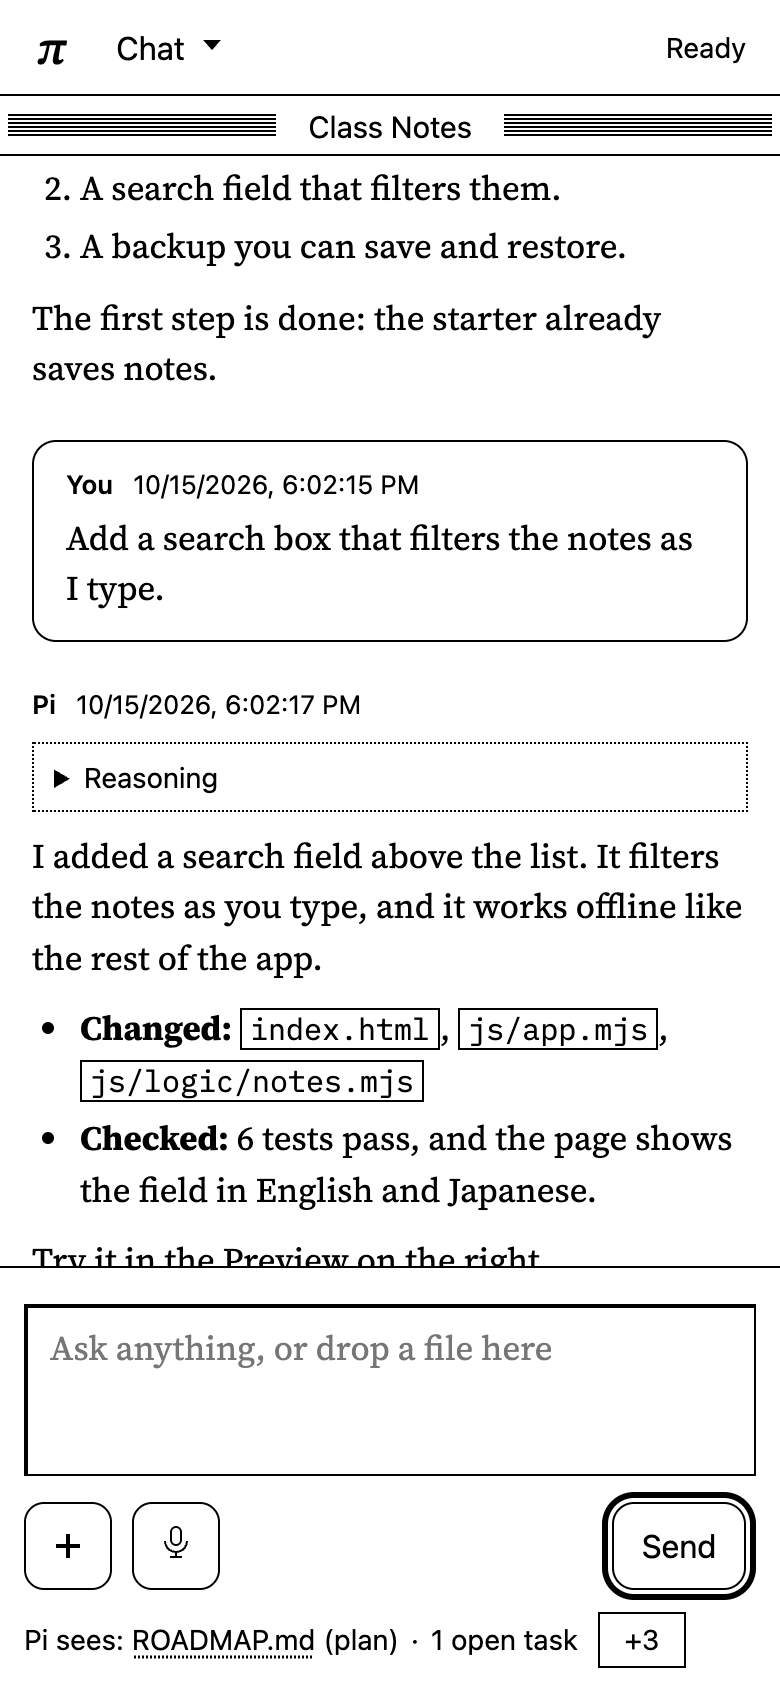
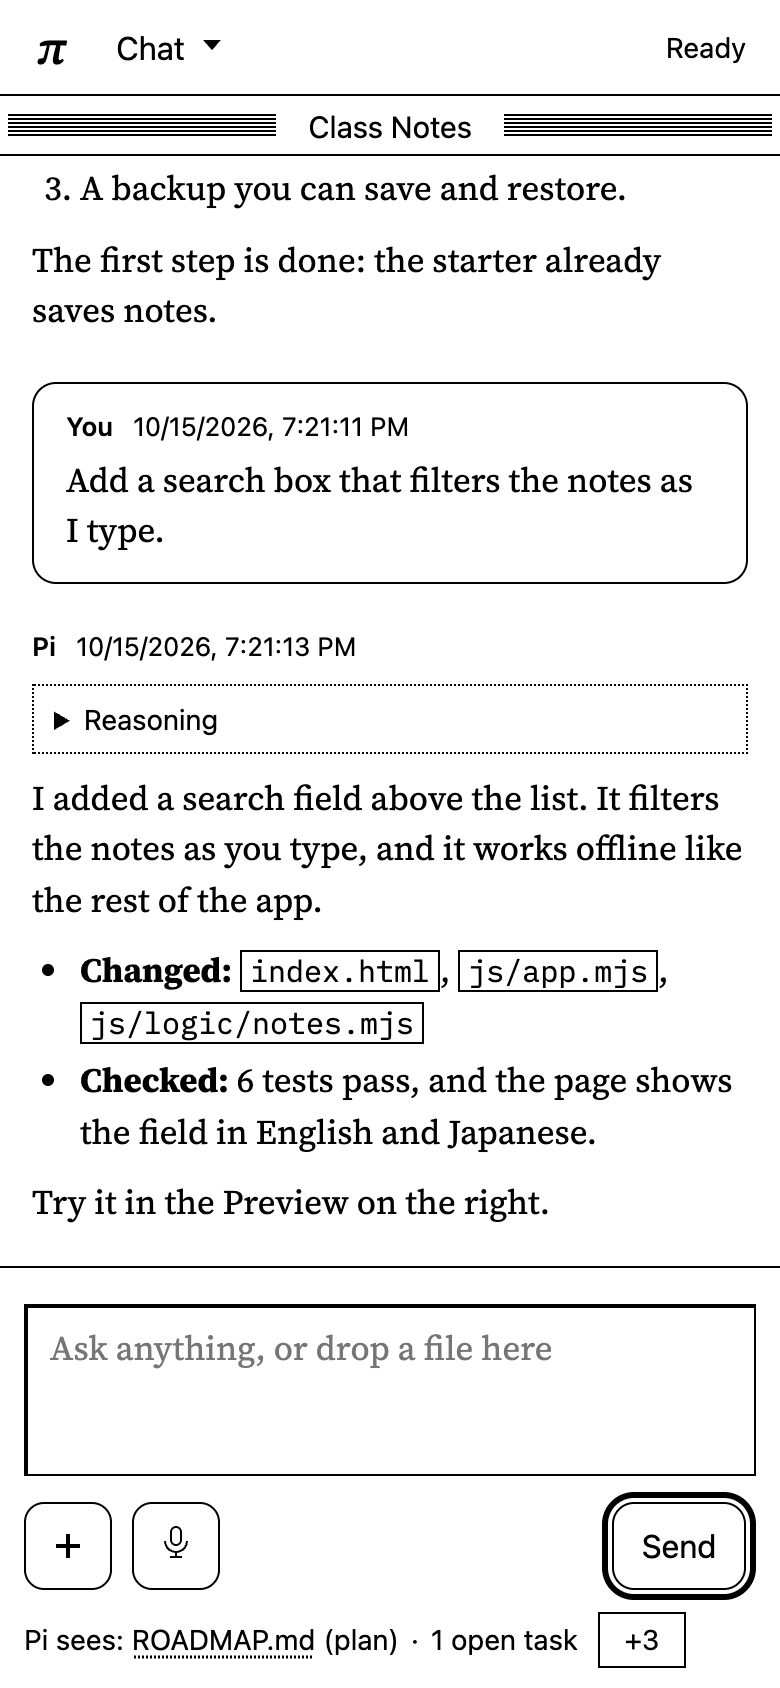
fix: the Preview makes room when Review opens beside Work (no window past the edge at 1440 px); the chat stays at its last line while it settles on a phone (task 222)

Changed region(s): [[0.0308, 0.0924, 0.9538, 0.7701]]

diff --git a/tasks/222-round-8-phone-parity.md b/tasks/222-round-8-phone-parity.md
@@ -47,7 +47,9 @@ now keeps it while dragging. One chat.cjs run in five timed out somewhere unrepo
 Still open:
 
 - [ ] Japanese for round 8's new strings (messages/ja.json).
-- [ ] Found while taking the README screenshots (task 224): with Work, Preview and Review open at 1440 px the Review
-  window runs past the right edge; on the phone the chat does not scroll to the last line of a reply.
+- [x] Found while taking the README screenshots (task 224): with Work, Preview and Review open at 1440 px the Review
+  window ran past the right edge (the Preview measured its room only when the desk resized; now also when the view or
+  Review changes, and it steps aside as a tab without taking over Work); on the phone the chat stopped short of the
+  last line after a reload (the thread now stays at its end while it settles). Screenshots retaken.
 - [ ] Round 9 brief for the designer: the model-gone sentence, the Chat commands no view has yet (Compact Now, New
   Conversation…, Earlier Conversations ›), Ph8_Settings' rows with no setting behind them, Terminal app in Ph8_NewProject.
